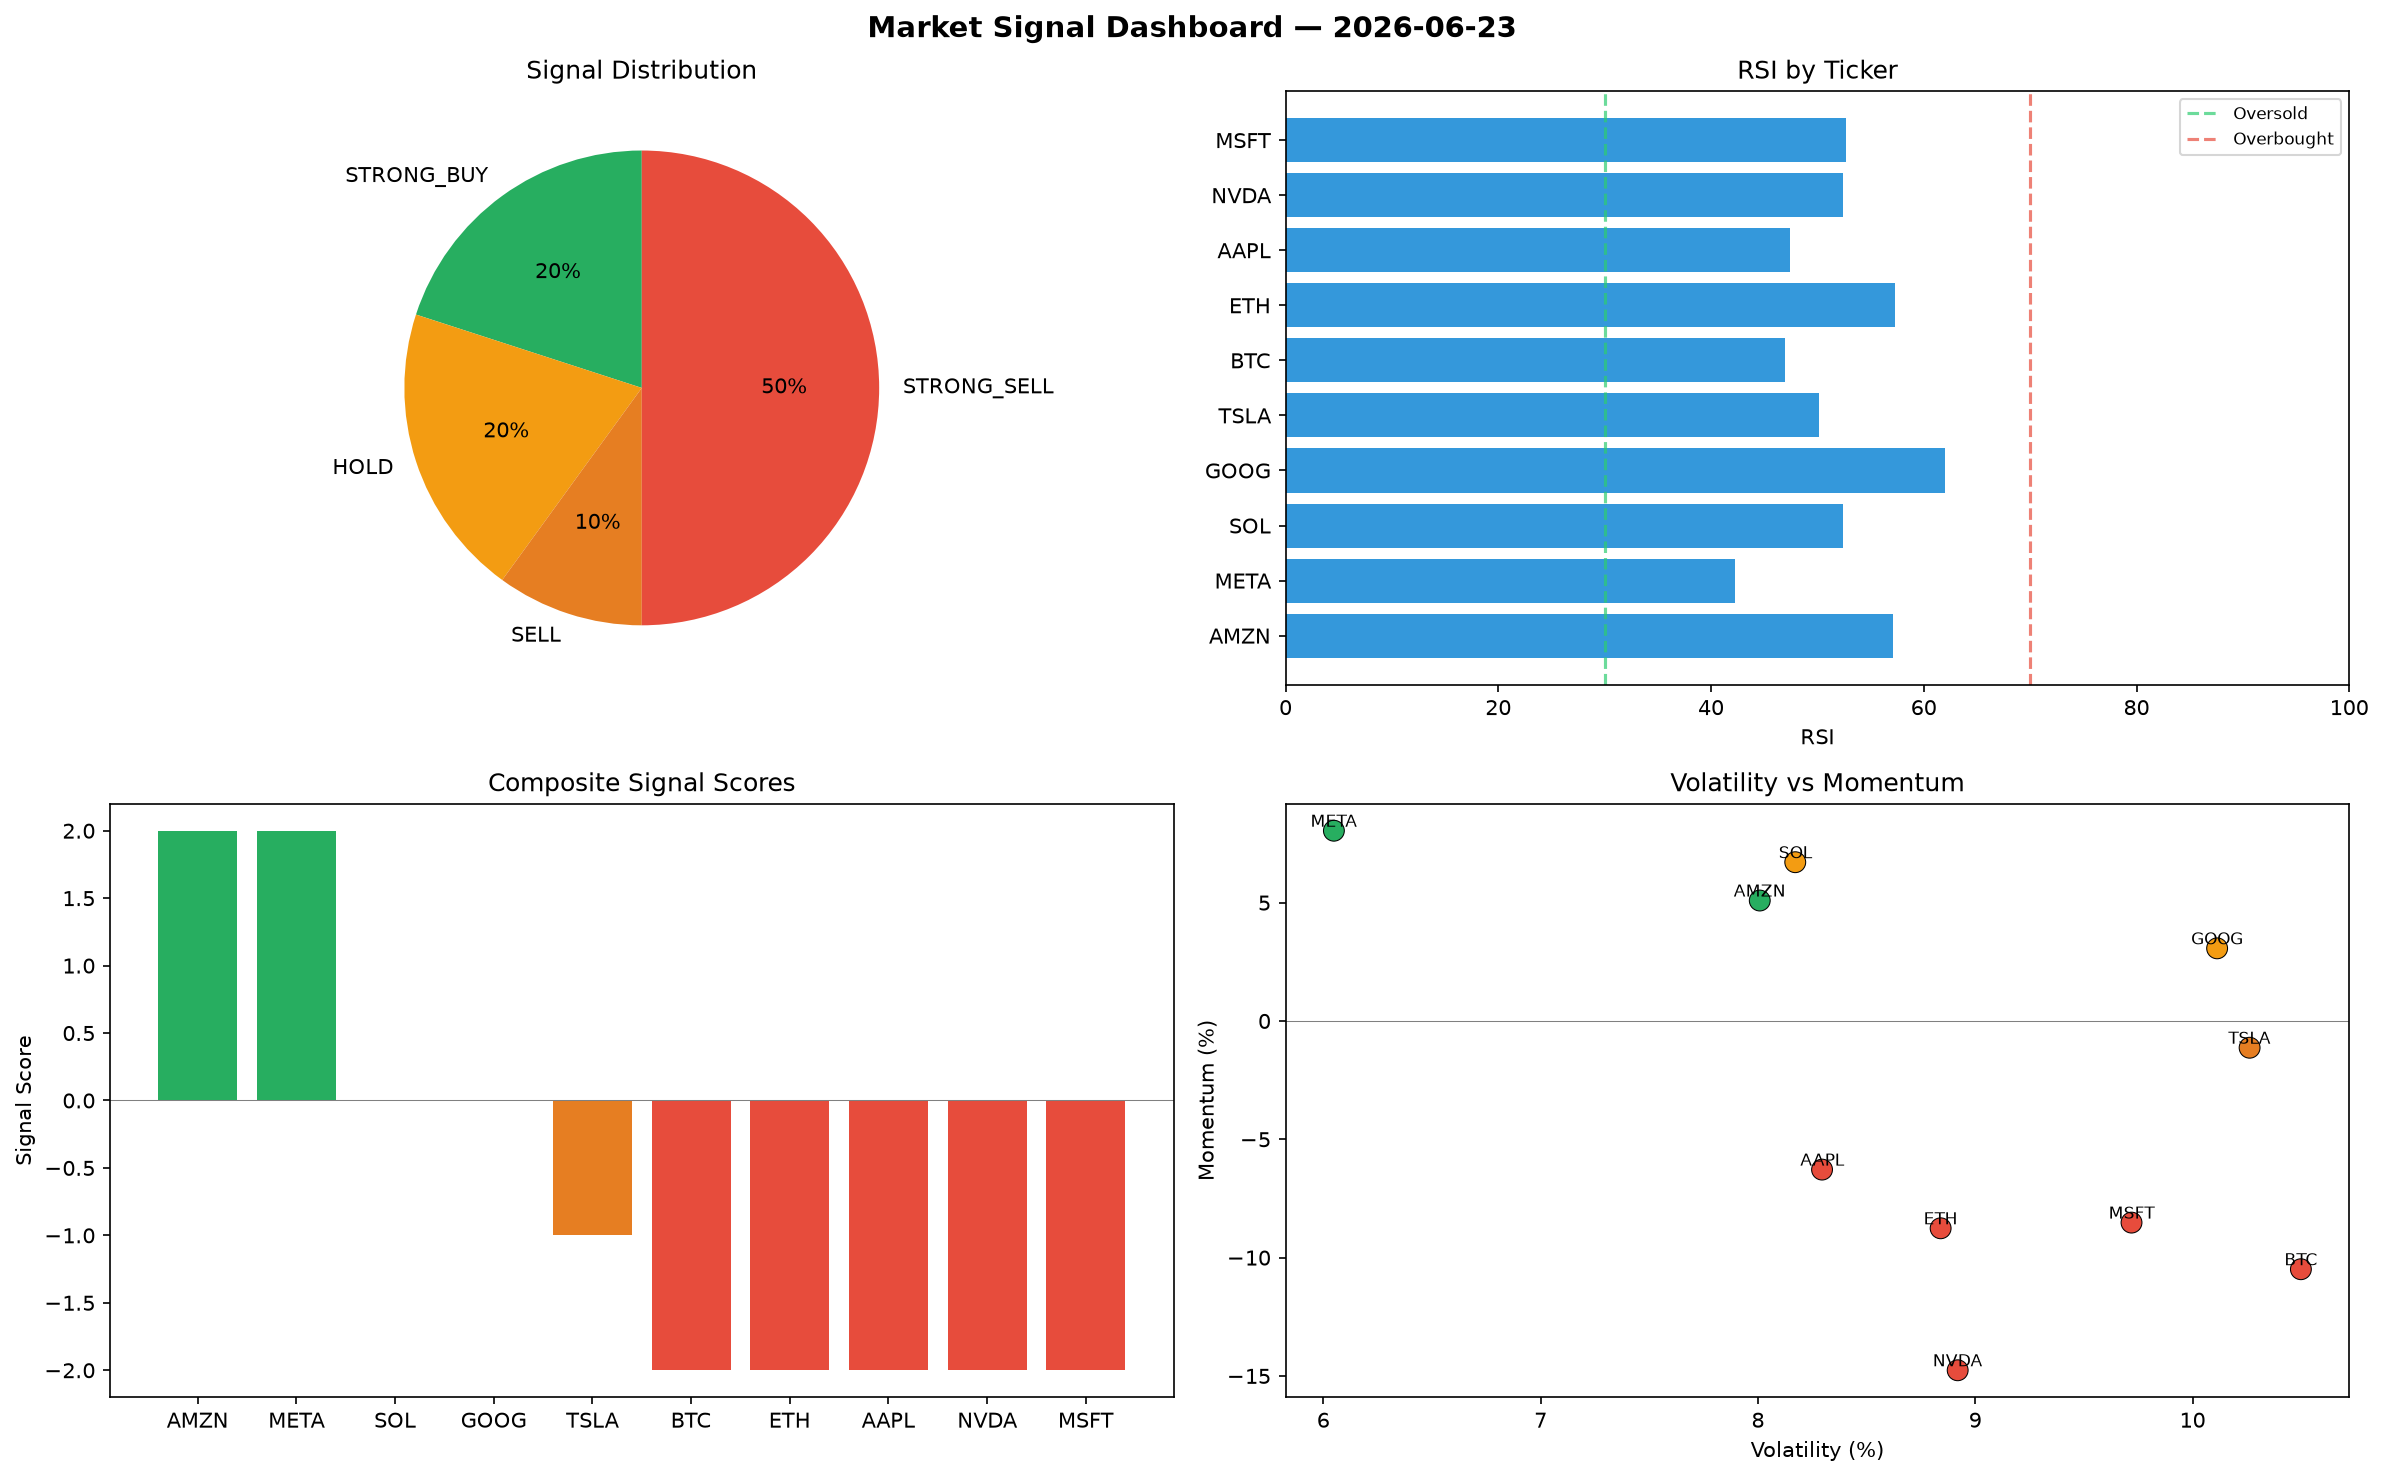
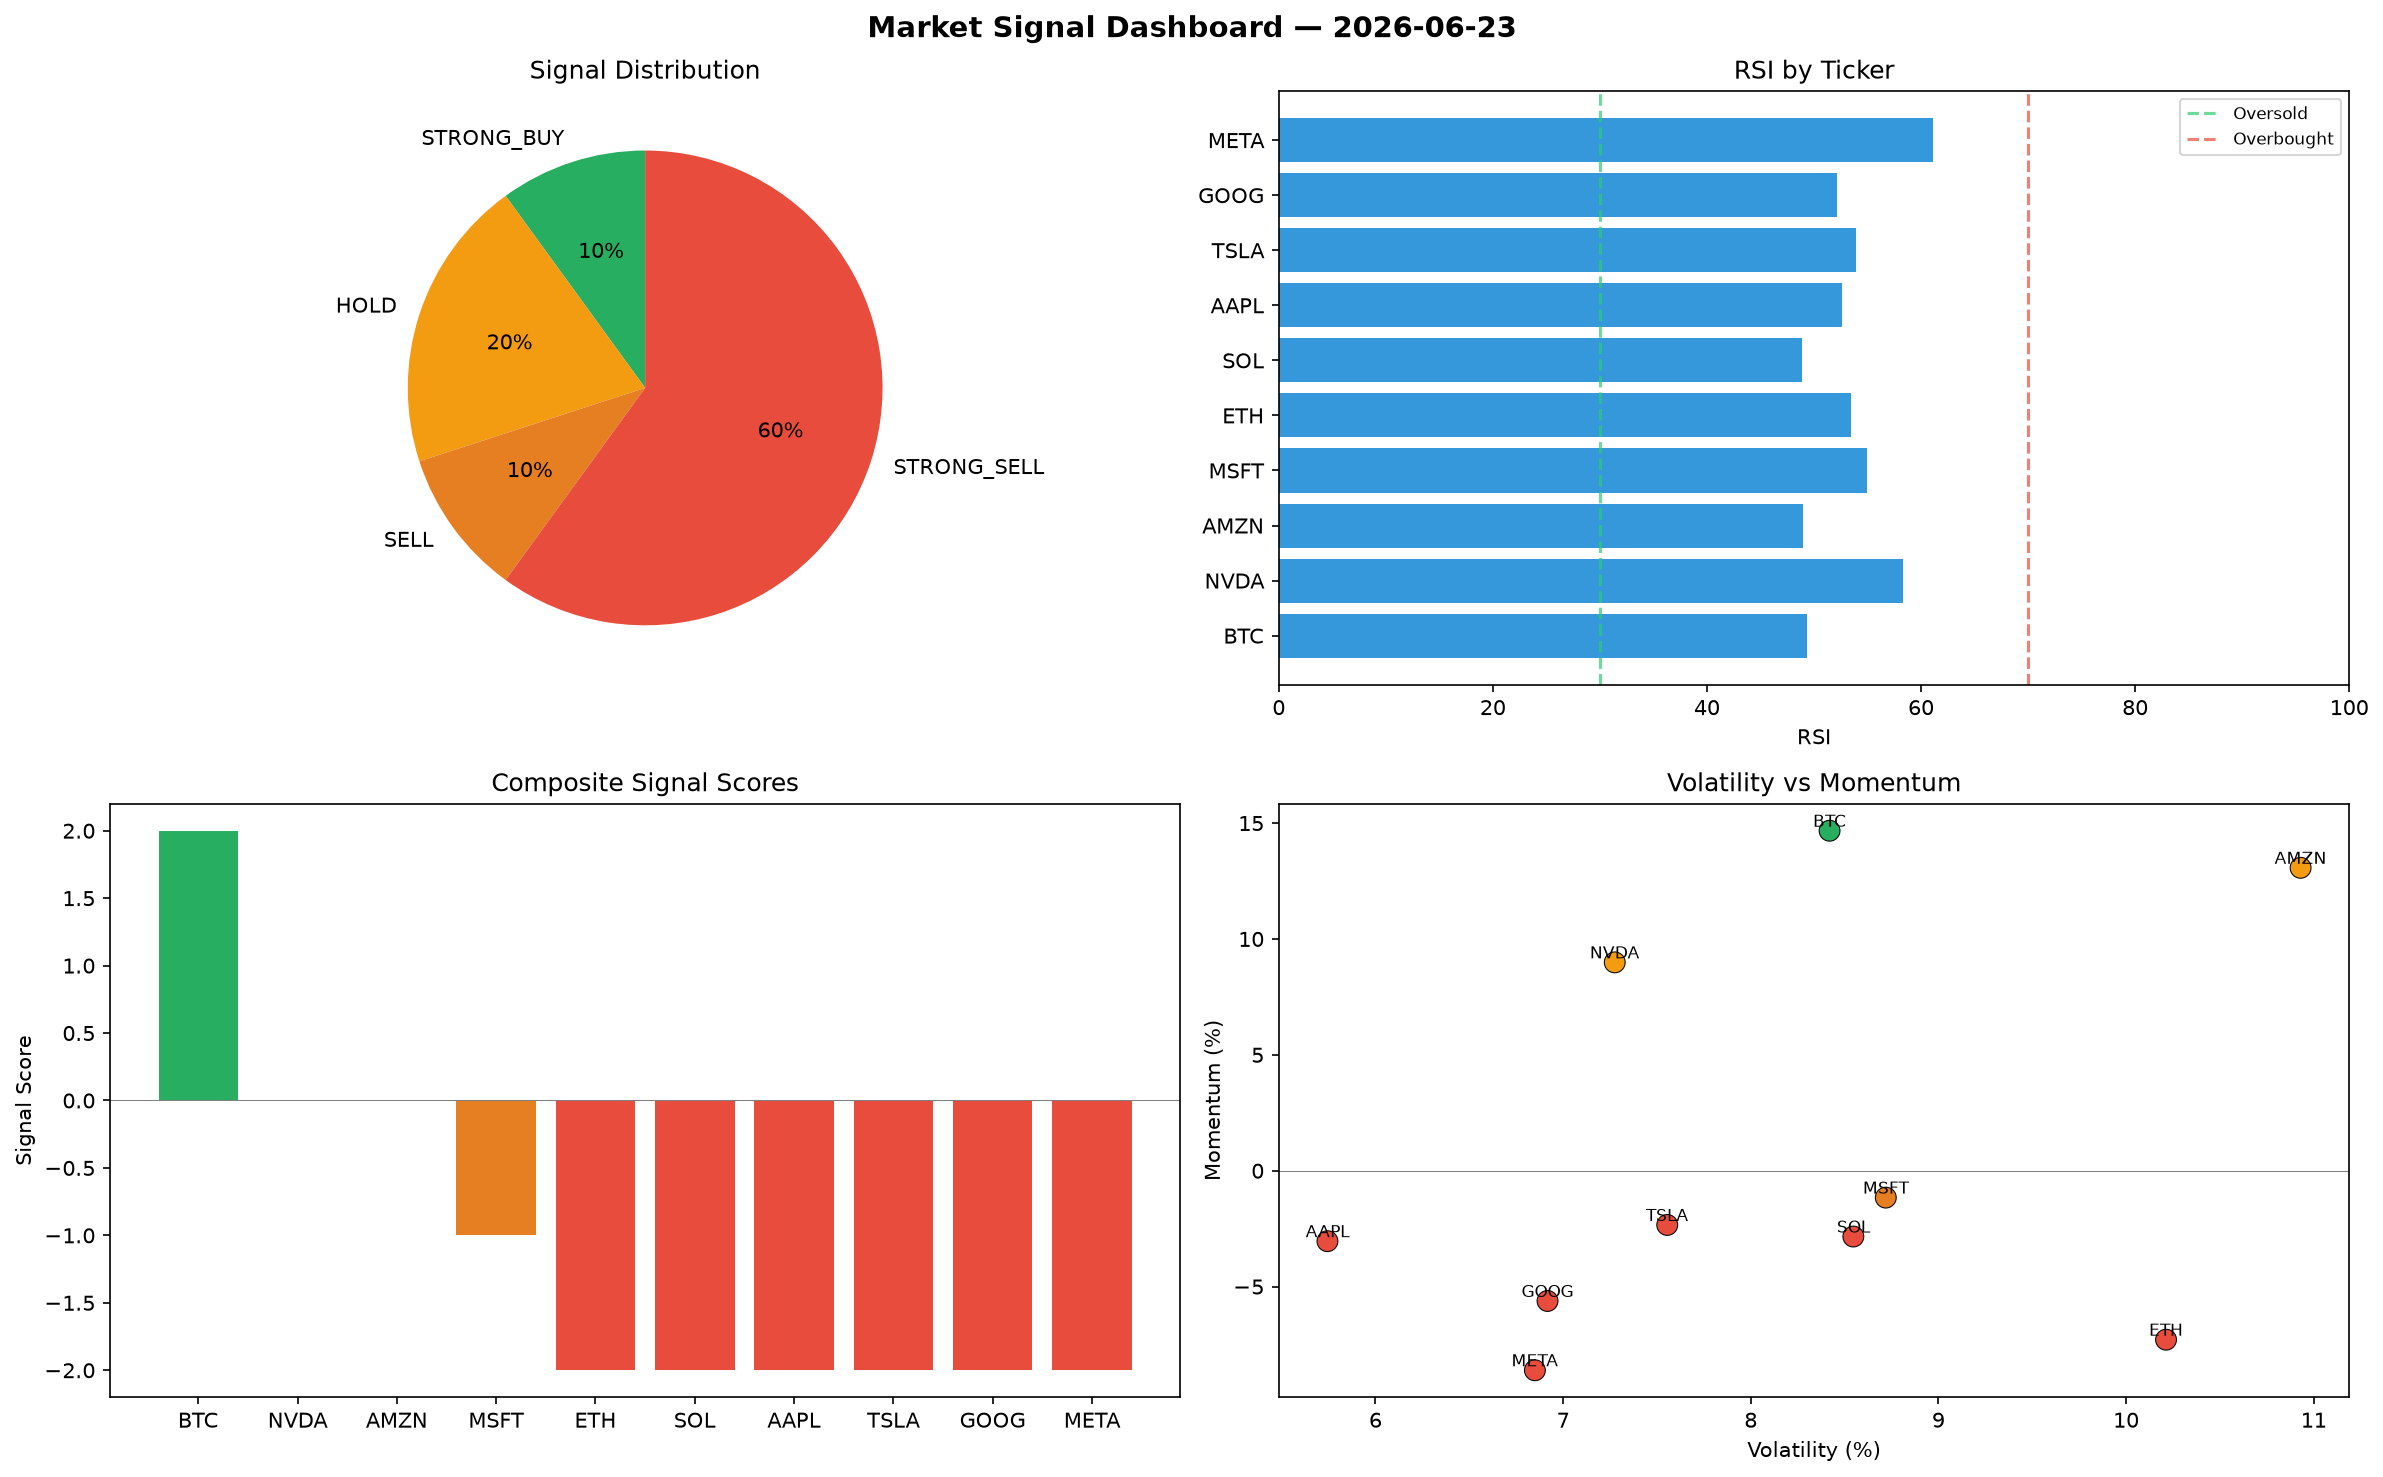
automated-bots: market signals 2026-06-23T11:36

diff --git a/logs/2026-06-23.md b/logs/2026-06-23.md
@@ -1,6 +1,6 @@
 # Market Signal Report — 2026-06-23
 
-**Run ID:** `43299c5761` | **Buy:** 2 | **Sell:** 6 | **Hold:** 2
+**Run ID:** `4b5df81765` | **Buy:** 1 | **Sell:** 7 | **Hold:** 2
 
 ![Dashboard](2026-06-23_dashboard.png)
 
@@ -8,28 +8,28 @@
 
 | Ticker | Price | Signal | Score | RSI | Momentum | Confidence |
 |--------|-------|--------|-------|-----|----------|------------|
-| AMZN | $1722.76 | **STRONG_BUY** | 2 | 57.11 | 0.0509 | 0.5 |
-| META | $4365.47 | **STRONG_BUY** | 2 | 42.22 | 0.0804 | 0.5 |
-| SOL | $2327.4 | **HOLD** | 0 | 52.37 | 0.0671 | 0.0 |
-| GOOG | $1257.69 | **HOLD** | 0 | 62.0 | 0.0307 | 0.0 |
-| TSLA | $1050.34 | **SELL** | -1 | 50.18 | -0.0113 | 0.25 |
-| BTC | $2409.48 | **STRONG_SELL** | -2 | 46.98 | -0.1049 | 0.5 |
-| ETH | $1077.31 | **STRONG_SELL** | -2 | 57.31 | -0.0876 | 0.5 |
-| AAPL | $1258.39 | **STRONG_SELL** | -2 | 47.44 | -0.0628 | 0.5 |
-| NVDA | $26.33 | **STRONG_SELL** | -2 | 52.42 | -0.1476 | 0.5 |
-| MSFT | $89.6 | **STRONG_SELL** | -2 | 52.68 | -0.0852 | 0.5 |
+| BTC | $761.45 | **STRONG_BUY** | 2 | 49.33 | 0.1467 | 0.5 |
+| NVDA | $1644.72 | **HOLD** | 0 | 58.31 | 0.0899 | 0.0 |
+| AMZN | $320.65 | **HOLD** | 0 | 48.96 | 0.1307 | 0.0 |
+| MSFT | $409.02 | **SELL** | -1 | 54.91 | -0.0116 | 0.25 |
+| ETH | $1973.9 | **STRONG_SELL** | -2 | 53.42 | -0.0729 | 0.5 |
+| SOL | $3759.67 | **STRONG_SELL** | -2 | 48.89 | -0.0284 | 0.5 |
+| AAPL | $4795.91 | **STRONG_SELL** | -2 | 52.61 | -0.0304 | 0.5 |
+| TSLA | $1251.51 | **STRONG_SELL** | -2 | 53.9 | -0.0234 | 0.5 |
+| GOOG | $192.98 | **STRONG_SELL** | -2 | 52.1 | -0.0562 | 0.5 |
+| META | $3385.23 | **STRONG_SELL** | -2 | 61.07 | -0.0861 | 0.5 |
 
 ## Delta vs Yesterday
 
 | Ticker | Today | Yesterday | Price Change | Signal Changed |
 |--------|-------|-----------|-------------|----------------|
-| AMZN | STRONG_BUY | STRONG_BUY | 📉 -59.05% | — |
-| META | STRONG_BUY | SELL | 📈 1.28% | ⚠ YES |
-| SOL | HOLD | STRONG_SELL | 📈 86.1% | ⚠ YES |
-| GOOG | HOLD | HOLD | 📈 48.22% | — |
-| TSLA | SELL | STRONG_SELL | 📉 -71.78% | ⚠ YES |
-| BTC | STRONG_SELL | STRONG_SELL | 📉 -24.25% | — |
-| ETH | STRONG_SELL | STRONG_SELL | 📉 -73.3% | — |
-| AAPL | STRONG_SELL | STRONG_BUY | 📉 -48.94% | ⚠ YES |
-| NVDA | STRONG_SELL | STRONG_SELL | 📉 -97.63% | — |
-| MSFT | STRONG_SELL | STRONG_BUY | 📉 -97.06% | ⚠ YES |
+| BTC | STRONG_BUY | STRONG_SELL | 📉 -76.06% | ⚠ YES |
+| NVDA | HOLD | STRONG_SELL | 📈 47.87% | ⚠ YES |
+| AMZN | HOLD | STRONG_BUY | 📉 -92.38% | ⚠ YES |
+| MSFT | SELL | STRONG_BUY | 📉 -86.58% | ⚠ YES |
+| ETH | STRONG_SELL | STRONG_SELL | 📉 -51.09% | — |
+| SOL | STRONG_SELL | STRONG_SELL | 📈 200.62% | — |
+| AAPL | STRONG_SELL | STRONG_BUY | 📈 94.61% | ⚠ YES |
+| TSLA | STRONG_SELL | STRONG_SELL | 📉 -66.37% | — |
+| GOOG | STRONG_SELL | HOLD | 📉 -77.26% | ⚠ YES |
+| META | STRONG_SELL | SELL | 📉 -21.46% | ⚠ YES |
